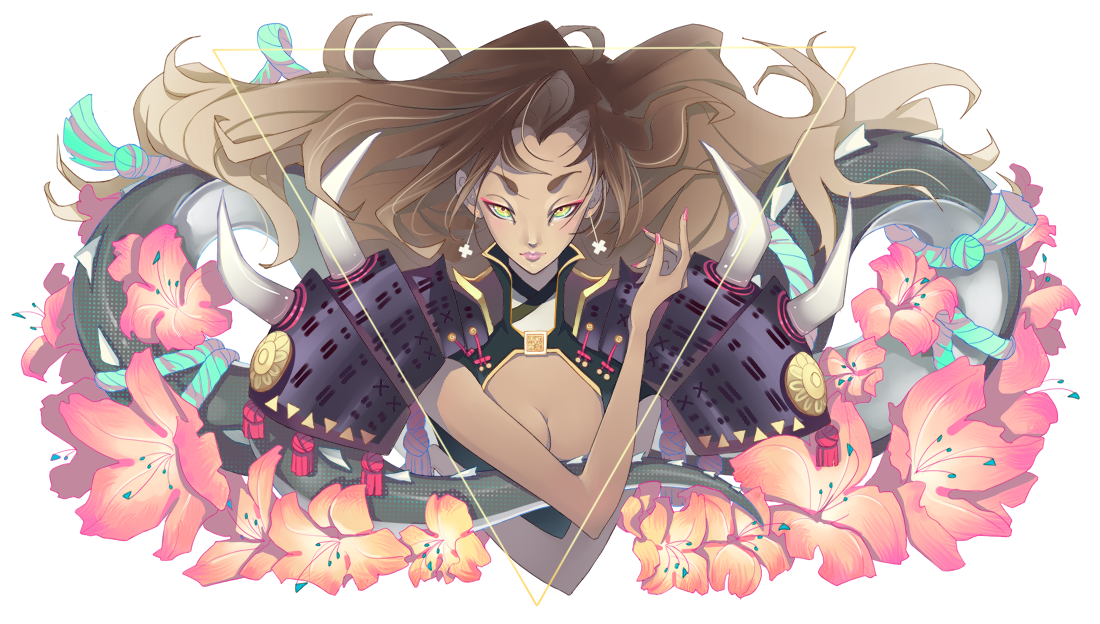
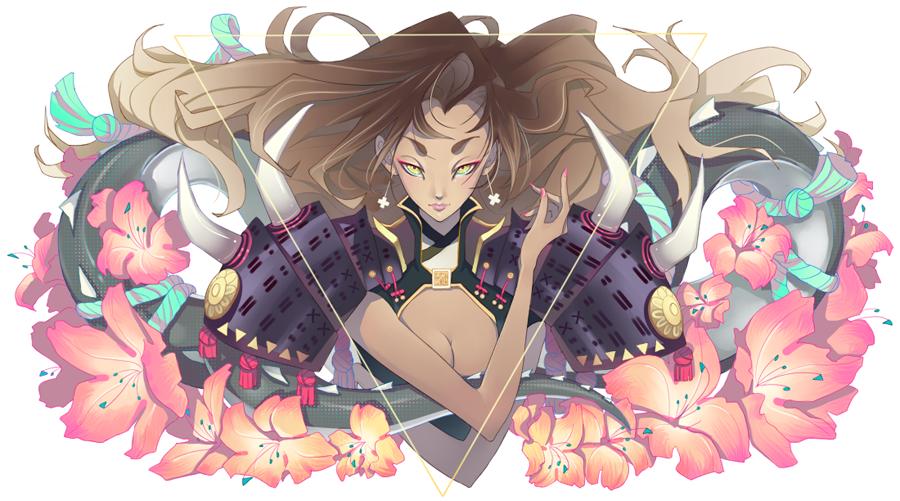
width900px check

diff --git a/index.html b/index.html
@@ -10,7 +10,6 @@
 	<link rel="stylesheet" href="http://fonts.googleapis.com/css?family=Source+Sans+Pro:300" type='text/css' />
 	<link href='http://fonts.googleapis.com/css?family=Megrim' rel='stylesheet' type='text/css'>
 	<link href='http://fonts.googleapis.com/css?family=Droid+Sans+Mono' rel='stylesheet' type='text/css'>
-	<link href='http://fonts.googleapis.com/css?family=Lekton' rel='stylesheet' type='text/css'>
 			
 	<meta name="viewport" content="width=device-width, initial-scale=1.0">
 </head>

diff --git a/style.css b/style.css
@@ -59,7 +59,7 @@ h5 {
 
 .mainHeader img {
 	width: 100%;
-	max-width: 1100px;
+	max-width: 900px;
 	height: auto;
 	margin: 0.5% 0;
 	margin-left: auto;
